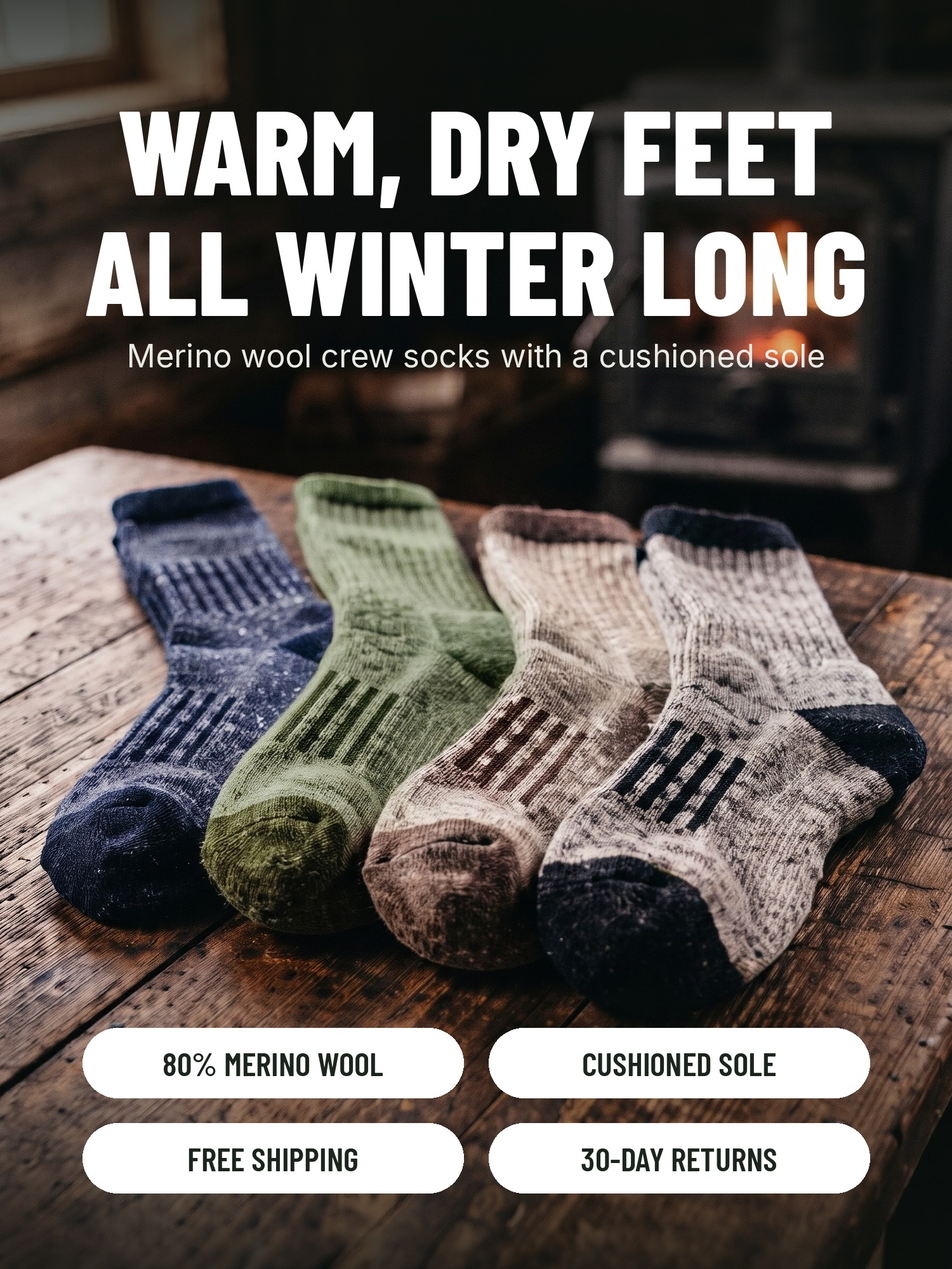
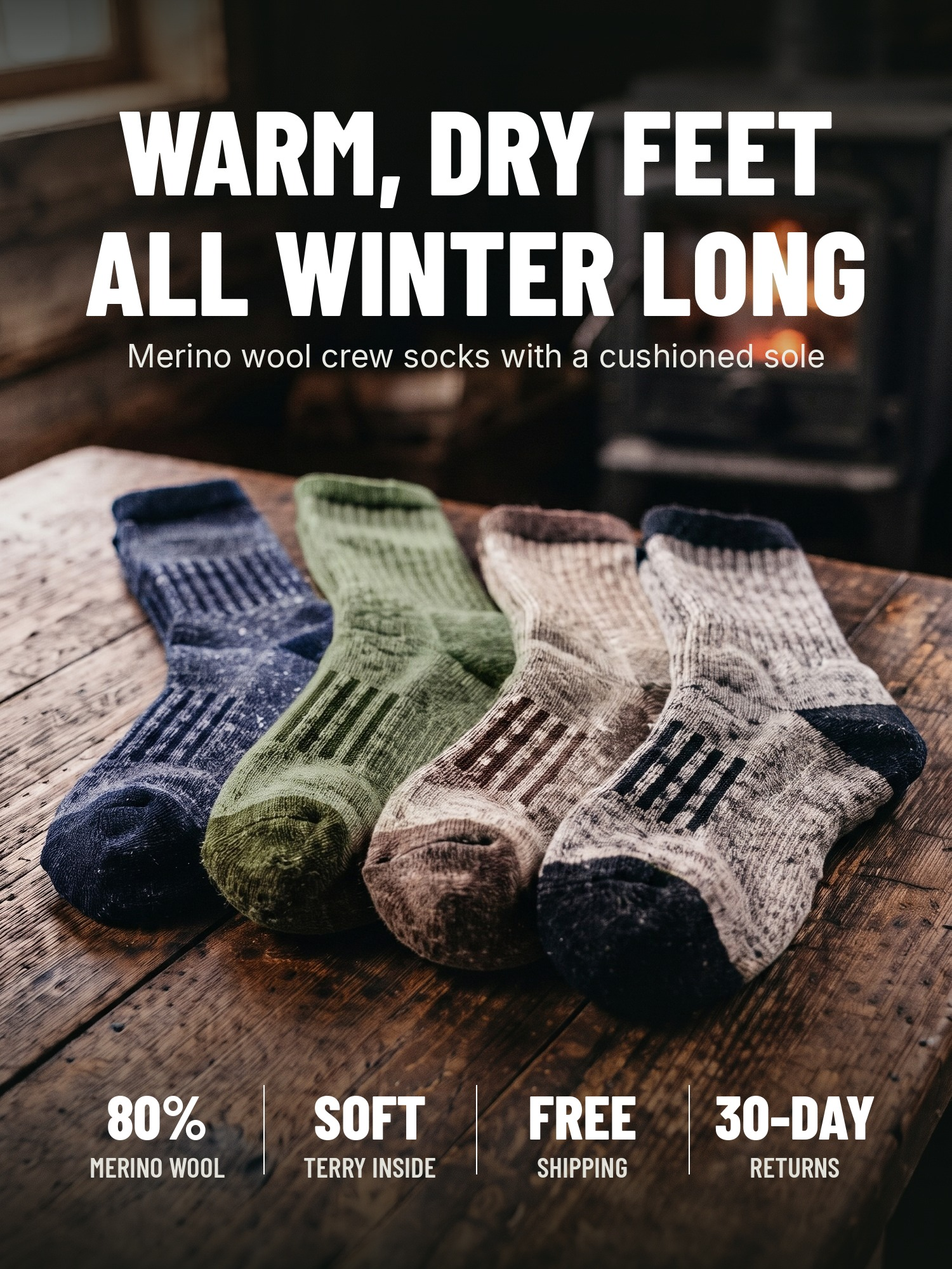
socks carousel: hero without bubbles
Claude-Session: https://claude.ai/code/session_017Ww7bRLYZM3uMxkStKbUri

Changed region(s): [[0.0613, 0.806, 0.92, 0.961]]

diff --git a/socks/carousel/hero.py b/socks/carousel/hero.py
@@ -8,7 +8,7 @@ g = Image.new('L',(1,H))
 for y in range(H):
     a = 0
     if y < 760: a = int(200*(1-y/760)**1.3)
-    if y > H-520: a = max(a,int(190*((y-(H-520))/520)**1.4))
+    if y > H-560: a = max(a,int(215*((y-(H-560))/560)**1.2))
     g.putpixel((0,y),a)
 shade = Image.new('RGB',(W,H),(14,18,14))
 im = Image.composite(shade, im, g.resize((W,H)))
@@ -20,12 +20,13 @@ for line in ['WARM, DRY FEET','ALL WINTER LONG']:
     w=d.textlength(line,font=f1); d.text(((W-w)/2,y),line,font=f1,fill='white'); y+=190
 sub='Merino wool crew socks with a cushioned sole'
 w=d.textlength(sub,font=f2); d.text(((W-w)/2,y+30),sub,font=f2,fill=(235,235,230))
-# badges, 2x2 white chips at bottom
-chips=['80% MERINO WOOL','CUSHIONED SOLE','FREE SHIPPING','30-DAY RETURNS']
-cw,ch,gap=600,110,40
-x0=(W-2*cw-gap)//2; yb=H-120-2*ch-gap
-for i,t in enumerate(chips):
-    cx=x0+(i%2)*(cw+gap); cy=yb+(i//2)*(ch+gap)
-    d.rounded_rectangle([cx,cy,cx+cw,cy+ch],radius=55,fill='white')
-    tw=d.textlength(t,font=fc); d.text((cx+(cw-tw)/2,cy+(ch-62)/2),t,font=fc,fill=(28,36,30))
+# facts strip: 4 columns, white text on the dark bottom, thin dividers, no bubbles
+facts=[('80%','MERINO WOOL'),('SOFT','TERRY INSIDE'),('FREE','SHIPPING'),('30-DAY','RETURNS')]
+fb=ImageFont.truetype(B,96); fs=ImageFont.truetype(SB,44)
+colw=(W-160)/4; yb=H-300
+for i,(a,b) in enumerate(facts):
+    cx=80+colw*i+colw/2
+    wa=d.textlength(a,font=fb); d.text((cx-wa/2,yb),a,font=fb,fill='white')
+    wb=d.textlength(b,font=fs); d.text((cx-wb/2,yb+112),b,font=fs,fill=(225,225,218))
+    if i: d.line([(80+colw*i,yb+10),(80+colw*i,yb+150)],fill=(255,255,255),width=2)
 im.save(out,quality=92)
